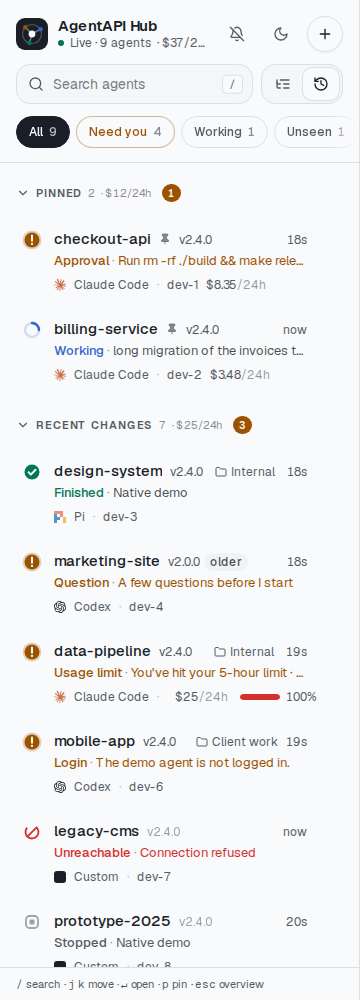
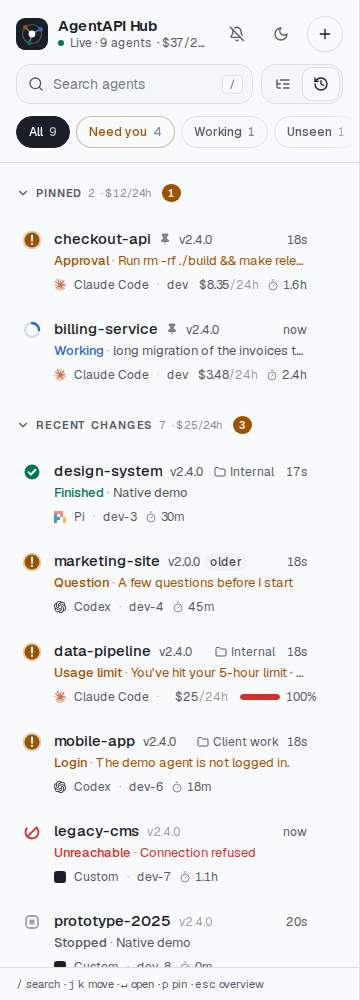
docs: show the work time in the hub screenshots
The capture starts the hub on a file with a week of work time for the
demo instances, takes hub-work.png and retakes the hub views that show
the overview or the rows.

diff --git a/docs/screenshots/README.md b/docs/screenshots/README.md
@@ -23,8 +23,10 @@ uncommitted changes):
   stopped and one was killed, so the hub can't reach it. Six are in two groups, and two of those
   are pinned to the top. The one that asks questions can run a binary stamped with an older
   version (`AGENTAPI_OLDER_BINARY`), so that it shows as older than the hub: 2.0.0 beside the
-  hub's 2.1.0 in the screenshots. A second, empty hub shows the guide for the first agents. The
-  rows name the machine; the screenshots show placeholders (`dev-1` and so on).
+  hub's 2.1.0 in the screenshots. The hub starts on a file that says how long each instance
+  worked over the last week, as a hub that watched them would keep it, since a demo doesn't run
+  for hours. A second, empty hub shows the guide for the first agents. The rows name the machine;
+  the screenshots show placeholders (`dev-1` and so on).
 
 ## Gallery
 
@@ -81,6 +83,7 @@ device scale factor of 1.
 | [hub-phone-menu.png](hub-phone-menu.png) | A row's menu on a phone: Pin to top, its group, a new one, and Forget |
 | [hub-muted.png](hub-muted.png) | The list on a phone with an agent's login wait muted |
 | [hub-spend.png](hub-spend.png) | The overview's Spend card: the last 24 hours and 7 days, and the agents that spent the most |
+| [hub-work.png](hub-work.png) | The overview's Work time card: the last 24 hours and 7 days, the agents that worked the most, and each group |
 | [hub-versions.png](hub-versions.png) | The overview's Versions card: how many agents run each AgentAPI version, on which machines, and how to update the older ones |
 | [hub-phone-chat.png](hub-phone-chat.png) | An instance open from the hub on a phone, with the way back to the list |
 
